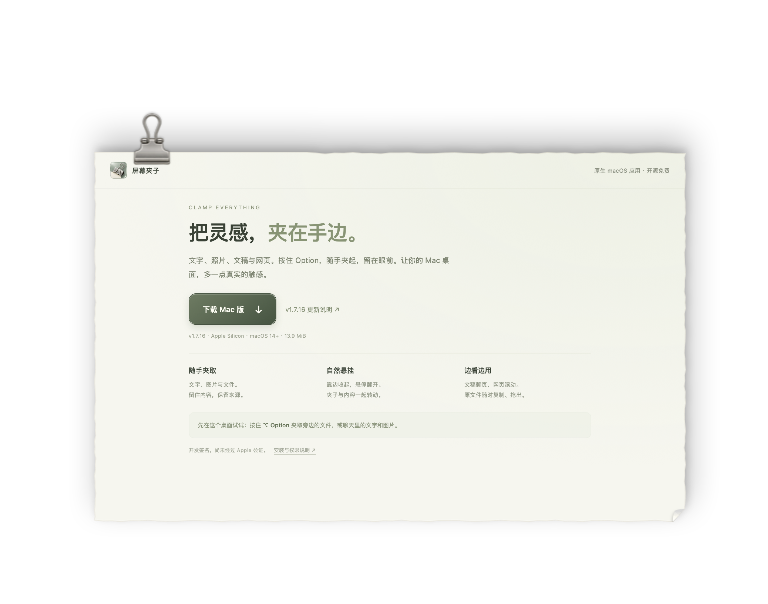
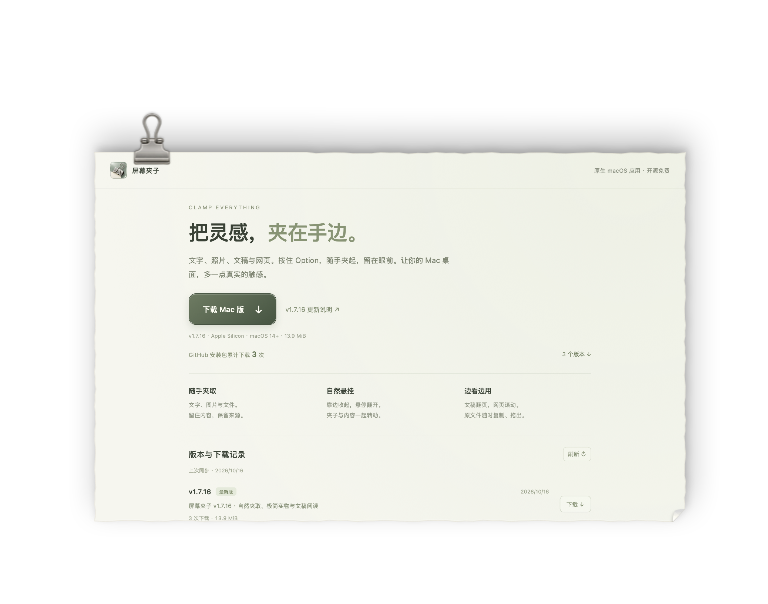
Add GitHub release download statistics and fix CDN-transformed HTML loading

diff --git a/site/assets/files/field-notes.html b/site/assets/files/field-notes.html
@@ -4,11 +4,17 @@
 <style>
 :root{font:14px/1.7 -apple-system,BlinkMacSystemFont,"PingFang SC",sans-serif;color:#344335;background:#f6f6ee;font-synthesis:none}*{box-sizing:border-box}body{margin:0;background:radial-gradient(ellipse at 90% 0,#e2e9d770,transparent 70%)}a{color:inherit;text-decoration:none}a:focus-visible{outline:2px solid #75926b;outline-offset:4px}header{display:flex;align-items:center;justify-content:space-between;gap:15px;padding:17px 28px;border-bottom:1px solid #536a4512}header a{display:flex;align-items:center;gap:9px;font-size:12px;font-weight:600}header img{width:29px;height:29px}header small{font-size:10px;color:#87907e}main{padding:24px 32px 26px;max-width:760px;margin:auto}.eyebrow{font-size:9px;letter-spacing:2px;color:#879577;margin:0 0 11px}h1{font-size:36px;letter-spacing:-1.1px;line-height:1.3;font-weight:550;margin:0 0 13px}h1 span{color:#829671}.description{font-size:13px;line-height:1.9;color:#7a8670;margin:0 0 21px;max-width:470px}.actions{display:flex;align-items:center;gap:16px;flex-wrap:wrap}.download{display:inline-flex;align-items:center;justify-content:center;gap:18px;min-height:46px;padding:11px 23px;border:1px solid #344c35;border-radius:12px;background:linear-gradient(145deg,#667d5f,#3c563f);color:#fffef4;box-shadow:0 5px 14px #3f55332a,inset 0 1px #ffffff3b;font-size:13px;font-weight:550;transition:transform .2s,filter .2s}.download:hover{filter:brightness(1.1);transform:translateY(-1px)}.download b{font-size:18px;font-weight:400}.release{font-size:11px;color:#7b8e6d}.version{font-size:9px;color:#9aa38e;margin:11px 0 22px}.features{display:grid;grid-template-columns:repeat(3,1fr);gap:19px;border-top:1px solid #536a4517;padding-top:19px}.features h2{font-size:12px;font-weight:550;margin:0 0 5px}.features p{font-size:10px;line-height:1.8;margin:0;color:#8e9884}.try{font-size:10px;color:#849477;padding:13px 15px;background:#e9eee27d;border:1px solid #dce5d340;border-radius:9px;margin:21px 0 13px}.try kbd{font:500 10px -apple-system,sans-serif;color:#5b7351}footer{font-size:9px;color:#a5ac9b}footer a{margin-left:9px;text-decoration:underline;text-underline-offset:3px}@media(max-width:440px){header{padding:13px 18px}main{padding:23px 22px}h1{font-size:30px}.description{font-size:12px}.features{gap:12px}.features h2{font-size:11px}.features p{font-size:9px}.actions{gap:13px}.download{padding:10px 19px}.version{font-size:8px}.try{font-size:9px;margin-top:17px}header small{font-size:9px}}@media(prefers-reduced-motion:reduce){*{transition:none!important}}
 @media(max-height:430px){header{padding:8px 18px}header img{width:24px;height:24px}main{padding:15px 22px}.eyebrow{display:none}h1{font-size:28px;margin-bottom:8px}.description{font-size:11px;line-height:1.7;margin-bottom:12px}.version{margin:8px 0 16px}.download{min-height:42px;padding:8px 17px}}
+.download-stats{display:flex;align-items:center;justify-content:space-between;gap:12px;flex-wrap:wrap;font-size:10px;color:#879677;margin:-9px 0 22px}.download-stats strong{font-size:13px;font-weight:600;font-variant-numeric:tabular-nums;color:#5d7951}.download-stats a{color:#6f8662;white-space:nowrap}.release-history{margin-top:25px;border-top:1px solid #536a4517;padding-top:20px;scroll-margin-top:18px}.release-history h2{font-size:14px;font-weight:550;letter-spacing:.2px;margin:0}.history-heading{display:flex;align-items:center;justify-content:space-between;gap:14px}.history-heading button{font:10px/1.5 -apple-system,sans-serif;border:1px solid #8e9f7b40;background:#fafff633;border-radius:6px;padding:4px 8px;color:#809171;cursor:pointer}.history-heading button:disabled{opacity:.45;cursor:wait}.release-status{font-size:9px;color:#9ea78f;line-height:1.7;margin:8px 0 3px}.release-list{list-style:none;padding:0;margin:0}.release-row{display:flex;align-items:center;gap:18px;padding:16px 0;border-bottom:1px solid #536a4512}.release-details{flex:1;min-width:0}.release-version{display:flex;align-items:center;gap:8px;flex-wrap:wrap;font-size:12px;font-weight:550}.release-version time{font-size:9px;font-weight:400;color:#9aa58c;margin-left:auto}.release-badge{font-size:8px;font-weight:400;line-height:1.8;padding:0 6px;border-radius:4px;color:#72865f;background:#e3ebd9}.release-badge.preview{background:#f0ead9;color:#9d8f62}.release-details .release-name{font-size:10px;line-height:1.8;color:#819174;margin:5px 0;overflow-wrap:anywhere}.release-details .release-count{font-size:9px;color:#a0ab93;font-variant-numeric:tabular-nums;margin:0}.release-files{display:flex;flex-direction:column;align-items:flex-end;gap:7px;flex:none}.release-file{font-size:10px;white-space:nowrap;padding:5px 11px;border:1px solid #a0b09066;border-radius:7px;color:#758a65;background:#fdfff647}.release-file:hover{background:#e7eedf}.stats-definition{font-size:9px;color:#a2ac95;margin:12px 0 0;line-height:1.8}.release-empty{font-size:11px;color:#879677;padding:15px 0}@media(max-width:440px){.download-stats{font-size:9px;gap:8px}.download-stats strong{font-size:12px}.release-history{margin-top:22px}.release-row{gap:12px}.release-version{gap:6px;font-size:11px}.release-version time{font-size:8px}.release-file{padding:5px 9px}.release-details .release-name{font-size:9px}}
 </style></head><body>
[1 lines of base64/hex data omitted]
 <main><p class="eyebrow">CLAMP EVERYTHING</p><h1>把灵感，<span>夹在手边。</span></h1><p class="description">文字、照片、文稿与网页。按住 Option，随手夹起，留在眼前。让你的 Mac 桌面，多一点真实的触感。</p>
 <div class="actions"><a id="desktop-download" class="download" href="https://github.com/Quartzsyr/ClampEverything/releases/download/v1.7.16/ClampEverything-1.7.16-arm64.dmg" target="_top">下载 Mac 版 <b aria-hidden="true">↓</b></a><a class="release" href="https://github.com/Quartzsyr/ClampEverything/releases/tag/v1.7.16" target="_blank" rel="noopener">v1.7.16 更新说明 ↗</a></div>
 <p class="version">v1.7.16 · Apple Silicon · macOS 14+ · 13.9 MiB</p>
+<div id="download-stats" class="download-stats" aria-label="GitHub 安装包下载统计"><!-- release-summary:start --><span>GitHub 安装包累计下载 <strong>3</strong> 次</span><a href="#release-history">3 个版本 ↓</a><!-- release-summary:end --></div>
 <section class="features"><article><h2>随手夹取</h2><p>文字、图片与文件。<br>留住内容，保留来源。</p></article><article><h2>自然悬挂</h2><p>靠边收起，悬停翻开。<br>夹子与内容一起转动。</p></article><article><h2>边看边用</h2><p>文稿翻页，网页滚动。<br>原文件随时复制、拖出。</p></article></section>
+<section class="release-history" id="release-history" aria-labelledby="history-title"><div class="history-heading"><h2 id="history-title">版本与下载记录</h2><button id="refresh-releases" type="button">刷新 ↻</button></div><p id="release-status" class="release-status" role="status" aria-live="polite"><!-- release-status:start -->上次同步 · 2026/10/16<!-- release-status:end --></p><ol id="release-list" class="release-list"><!-- release-list:start --><li class="release-row"><div class="release-details"><div class="release-version"><a href="https://github.com/Quartzsyr/ClampEverything/releases/tag/v1.7.16" target="_blank" rel="noopener">v1.7.16</a><span class="release-badge">最新版</span><time datetime="2026-10-16T02:53:20Z">2026/10/16</time></div><p class="release-name">屏幕夹子 v1.7.16 · 自然夹取、极简实物与文稿阅读</p><p class="release-count">3 次下载 · 13.9 MiB</p></div><div class="release-files"><a class="release-file" href="https://github.com/Quartzsyr/ClampEverything/releases/download/v1.7.16/ClampEverything-1.7.16-arm64.dmg" target="_top" title="ClampEverything-1.7.16-arm64.dmg">下载 ↓</a></div></li><li class="release-row"><div class="release-details"><div class="release-version"><a href="https://github.com/Quartzsyr/ClampEverything/releases/tag/v1.6.4" target="_blank" rel="noopener">v1.6.4</a><time datetime="2026-10-14T09:55:30Z">2026/10/14</time></div><p class="release-name">屏幕夹子 v1.6.4 · 明显高亮与拟物安装包</p><p class="release-count">0 次下载 · 11.3 MiB</p></div><div class="release-files"><a class="release-file" href="https://github.com/Quartzsyr/ClampEverything/releases/download/v1.6.4/ClampEverything-1.6.4-arm64.dmg" target="_top" title="ClampEverything-1.6.4-arm64.dmg">下载 ↓</a></div></li><li class="release-row"><div class="release-details"><div class="release-version"><a href="https://github.com/Quartzsyr/ClampEverything/releases/tag/v1.6.1" target="_blank" rel="noopener">v1.6.1</a><time datetime="2026-10-14T08:04:35Z">2026/10/14</time></div><p class="release-name">屏幕夹子 v1.6.1 · 拟物材质与鼠标夹取</p><p class="release-count">0 次下载 · 9.5 MiB</p></div><div class="release-files"><a class="release-file" href="https://github.com/Quartzsyr/ClampEverything/releases/download/v1.6.1/ClampEverything-1.6.1-arm64.dmg" target="_top" title="ClampEverything-1.6.1-arm64.dmg">下载 ↓</a></div></li><!-- release-list:end --></ol><p class="stats-definition">数据来自 GitHub Release，仅统计 DMG 安装包，不含校验文件和图片附件。</p></section>
 <p class="try">先在这个桌面试试：按住 <kbd>⌥ Option</kbd> 夹取旁边的文件，或聊天里的文字和图片。</p><footer>开发签名，尚未经过 Apple 公证。<a href="https://github.com/Quartzsyr/ClampEverything/releases/tag/v1.7.16" target="_blank" rel="noopener">安装与权限说明 ↗</a></footer>
-</main></body></html>
+</main>
+<!-- release-data:start --><script type="application/json" id="release-data">{"fetchedAt":"2026-10-16T03:24:54.268Z","latestTag":"v1.7.16","releases":[{"tag":"v1.7.16","name":"屏幕夹子 v1.7.16 · 自然夹取、极简实物与文稿阅读","url":"https://github.com/Quartzsyr/ClampEverything/releases/tag/v1.7.16","publishedAt":"2026-10-16T02:53:20Z","prerelease":false,"assets":[{"name":"ClampEverything-1.7.16-arm64.dmg","url":"https://github.com/Quartzsyr/ClampEverything/releases/download/v1.7.16/ClampEverything-1.7.16-arm64.dmg","downloads":3,"size":14600138}],"downloads":3},{"tag":"v1.6.4","name":"屏幕夹子 v1.6.4 · 明显高亮与拟物安装包","url":"https://github.com/Quartzsyr/ClampEverything/releases/tag/v1.6.4","publishedAt":"2026-10-14T09:55:30Z","prerelease":false,"assets":[{"name":"ClampEverything-1.6.4-arm64.dmg","url":"https://github.com/Quartzsyr/ClampEverything/releases/download/v1.6.4/ClampEverything-1.6.4-arm64.dmg","downloads":0,"size":11838853}],"downloads":0},{"tag":"v1.6.1","name":"屏幕夹子 v1.6.1 · 拟物材质与鼠标夹取","url":"https://github.com/Quartzsyr/ClampEverything/releases/tag/v1.6.1","publishedAt":"2026-10-14T08:04:35Z","prerelease":false,"assets":[{"name":"ClampEverything-1.6.1-arm64.dmg","url":"https://github.com/Quartzsyr/ClampEverything/releases/download/v1.6.1/ClampEverything-1.6.1-arm64.dmg","downloads":0,"size":10000510}],"downloads":0}],"totalDownloads":3}</script><!-- release-data:end -->
+<script type="module" src="../releases.js"></script>
+</body></html>

diff --git a/site/desktop.js b/site/desktop.js
@@ -46,7 +46,7 @@ export function createDesktop({manifest,nativeURL,files,canCapture,onCapture,onS
     return `<div class="finder-path"><button data-finder-back aria-label="返回桌面" ${finderFolder?'':'disabled'}>‹</button><span>${finderFolder?'周末旅行':'桌面'}</span><small>${kinds.length} 项</small><button class="finder-view" aria-label="列表视图">☷</button></div><div class="finder-table"><div class="finder-column"><span>名称</span><span>种类</span></div>${kinds.map(kind=>{const item=itemFor(kind);return `<div class="finder-row"><button class="finder-file" ${sourceAttr(`finder-${kind}`,kind)}>${sourceImage(item)}<span>${esc(nameFor(item))}</span><small>${labels[kind]}</small></button>${kind==='folder'?'<button data-folder-open aria-label="打开周末旅行" class="folder-disclosure">›</button>':''}</div>`;}).join('')}</div><div class="finder-status">${finderFolder?'周末旅行':'桌面'} · ${kinds.length} 项</div>`;
   }
   function openFinder(folder=false){finderFolder=folder;let record=windows.get('finder');if(record){$('.window-body',record.el).innerHTML=finderContents();record.title=finderFolder?'周末旅行':'桌面';$('.window-title',record.el).textContent=record.title;restoreWindow(record);return record;}return makeWindow('finder','finder',finderFolder?'周末旅行':'桌面',finderContents(),{width:590,height:440,sidebar:'<aside class="finder-sidebar"><small>个人收藏</small><button data-finder-root class="selected">▣　桌面</button><button data-folder-open>▰　周末旅行</button><span>⌄　下载</span><span>◷　最近使用</span></aside>'});}
-  function fileFrame(item,src,label){return `<div class="frame-source" ${sourceAttr(`viewer-${item.kind}`,item.kind)}><iframe src="${src}" title="${esc(label)}" data-file-id="${item.fileId}"></iframe><div class="file-capture-layer" aria-label="按住 Option 夹取${esc(item.title)}"></div></div>`;}
+  function fileFrame(item,src,label){const url=new URL(src);url.searchParams.set('v',item.fileId.slice(0,16));src=url.href;return `<div class="frame-source" ${sourceAttr(`viewer-${item.kind}`,item.kind)}><iframe src="${src}" title="${esc(label)}" data-file-id="${item.fileId}"></iframe><div class="file-capture-layer" aria-label="按住 Option 夹取${esc(item.title)}"></div></div>`;}
   function bindFrames(el){for(const frame of $$('iframe',el))frame.addEventListener('load',()=>{
     // HTML and Word previews are same-origin files. Forward only modifier/mouse
     // state so holding Option inside the document also arms the outer clip.
@@ -64,18 +64,18 @@ export function createDesktop({manifest,nativeURL,files,canCapture,onCapture,onS
   function openDocument(kind){const item=itemFor(kind),id=`document-${kind}`,existing=windows.get(id);if(existing){restoreWindow(existing);return existing;}
     const content=kind==='word'?fileFrame(item,nativeURL(files.catalog.previews.word.path),'从 DOCX 原件读取的正文'):`<div class="document-view pdf-pages" ${sourceAttr('viewer-document',kind)}><p class="file-loading">正在读取 PDF 原件…</p></div>`;
     const record=makeWindow(id,'document',item.title,`<div class="document-toolbar"><span>${kind==='word'?'Word 文稿':'PDF 原件'}</span><small>${files.get(item).name}</small><button data-download-file="${kind}" aria-label="下载原文件">↓</button><a href="${files.href(item)}" target="_blank" rel="noopener">打开原件 ↗</a></div>${content}`,{width:480,height:570});record.item=item;
-    if(kind==='document')renderPDF($('.pdf-pages',record.el),files.get(item).file).catch(error=>{const view=$('.pdf-pages',record.el);if(view)view.textContent='无法读取 PDF，请打开或下载原件。';console.error(error);});
+    if(kind==='document')files.ensure(item).then(original=>renderPDF($('.pdf-pages',record.el),original.file)).catch(error=>{const view=$('.pdf-pages',record.el);if(view)view.textContent='无法读取 PDF，请打开或下载原件。';console.error(error);});
     return record;
   }
   function openPhoto(){const item=itemFor('photo');return makeWindow('photos','photos',item.title,`<div class="photo-view" ${sourceAttr('photo-open','photo')} role="button" tabindex="0">${sourceImage(item)}</div><div class="preview-footer"><span>800 × 500 · PNG 图像</span><a href="${nativeURL(item.file)}" target="_blank" rel="noopener">打开原图 ↗</a></div>`,{width:550,height:420});}
-  async function openCode(){const record=makeWindow('code','code','LittleNote.swift','<div class="code-editor" role="button" tabindex="0" '+sourceAttr('editor-code','code')+'><pre></pre></div>',{width:530,height:400});$('pre',record.el).textContent=await files.text(itemFor('code'));return record;}
+  async function openCode(){const record=makeWindow('code','code','LittleNote.swift','<div class="code-editor" role="button" tabindex="0" '+sourceAttr('editor-code','code')+'><pre></pre></div>',{width:530,height:400});$('pre',record.el).textContent=await files.text(itemFor('code')).catch(()=> '暂时无法读取原文件，请稍后重试。');return record;}
   function openTrash(){return makeWindow('trash','trash','废纸篓',`<div class="trash-contents">${trash.length?trash.map((entry,index)=>`<div class="trash-row">${sourceImage(entry.item)}<span>${esc(entry.item.title)}</span><button data-trash-restore="${index}">放回原处</button></div>`).join(''):'<div class="empty-trash">废纸篓是空的</div>'}</div>`,{width:470,height:340});}
-  async function openInspector(item){const file=files.get(item),archive=files.catalog.archives[item.file],record=makeWindow(`file-${item.kind}`,'finder',item.title,`<div class="file-inspector" ${sourceAttr(`inspector-${item.kind}`,item.kind)}>${sourceImage(item)}<strong>${esc(file.name)}</strong><small>${labels[item.kind]} · ${file.size.toLocaleString()} 字节</small><button data-download-file="${item.kind}">下载原文件 ↓</button>${archive?`<ul class="archive-entries">${archive.map(entry=>`<li><span>${esc(entry.name)}</span><small>${entry.directory?'文件夹':entry.size.toLocaleString()+' B'}</small></li>`).join('')}</ul>`:'<pre class="file-hex"></pre>'}</div>`,{width:440,height:420});if(!archive){const bytes=new Uint8Array(await file.file.arrayBuffer());$('.file-hex',record.el).textContent=Array.from(bytes,b=>b.toString(16).padStart(2,'0').toUpperCase()).join(' ');}return record;}
+  async function openInspector(item){const file=files.get(item),archive=files.catalog.archives[item.file],record=makeWindow(`file-${item.kind}`,'finder',item.title,`<div class="file-inspector" ${sourceAttr(`inspector-${item.kind}`,item.kind)}>${sourceImage(item)}<strong>${esc(file.name)}</strong><small>${labels[item.kind]} · ${file.size.toLocaleString()} 字节</small><button data-download-file="${item.kind}">下载原文件 ↓</button>${archive?`<ul class="archive-entries">${archive.map(entry=>`<li><span>${esc(entry.name)}</span><small>${entry.directory?'文件夹':entry.size.toLocaleString()+' B'}</small></li>`).join('')}</ul>`:'<pre class="file-hex"></pre>'}</div>`,{width:440,height:420});if(!archive){try{const original=await files.ensure(item),bytes=new Uint8Array(await original.file.arrayBuffer());$('.file-hex',record.el).textContent=Array.from(bytes,b=>b.toString(16).padStart(2,'0').toUpperCase()).join(' ');}catch{$('.file-hex',record.el).textContent='原文件暂时不可用，请稍后重试。';}}return record;}
   function openFile(item){if(!item)return;switch(item.kind){case'folder':return openFinder(true);case'photo':return openPhoto();case'note':return openNotes();case'web':return openSafari();case'document':case'word':return openDocument(item.kind);case'video':case'audio':return openPlayer(item.kind);case'code':return openCode();default:return openInspector(item);}}
   function openApp(app){const existing=[...windows.values()].filter(w=>w.app===app).sort((a,b)=>(b.lastFocus||0)-(a.lastFocus||0))[0];if(existing){restoreWindow(existing);return;}switch(app){case'finder':return openFinder();case'messages':return openMessages();case'safari':return openSafari();case'notes':return openNotes();case'quicktime':return openPlayer();case'clamp':return onAbout();case'trash':return openTrash();}}
   function bindPlayer(el){const media=$('video,audio',el);if(!media)return;const play=$('[data-player-action=play]',el),range=$('.player-progress',el);play.onclick=()=>{if(media.paused)media.play().catch(()=>onStatus('暂时无法播放','可以打开原文件查看'));else media.pause();};const format=t=>`00:${String(Math.floor(t||0)).padStart(2,'0')}`;media.addEventListener('loadedmetadata',()=>{$('.player-duration',el).textContent=format(media.duration);});media.addEventListener('timeupdate',()=>{range.value=media.duration?100*media.currentTime/media.duration:0;$('.player-time',el).textContent=format(media.currentTime);});media.addEventListener('play',()=>{play.textContent='Ⅱ';play.setAttribute('aria-label','暂停');});media.addEventListener('pause',()=>{play.textContent='▶';play.setAttribute('aria-label','播放');});range.oninput=()=>{if(media.duration)media.currentTime=Number(range.value)*media.duration/100;};}
   function getSource(el){const base=sources.get(el.dataset.source);if(!base)return null;return {...base,element:el,visual:$('img,video,canvas,.message-lines',el)||el,origin:el.dataset.source};}
-  function contextMenu(e,source){e.preventDefault();contextClear();const entries=[['打开',()=>openFile(source.item)],['快速查看',()=>openFile(source.item)],['复制',()=>onCopy(source.item)],['在访达中显示',()=>openFinder(source.item.kind==='folder')],['下载原文件'+(source.item.kind==='folder'?'（ZIP）':''),()=>files.download(source.item)]];menu.innerHTML=entries.map(([label],i)=>`<button role="menuitem" data-context-index="${i}">${label}</button>`).join('');menu.hidden=false;menu.style.left=`${Math.min(e.clientX,innerWidth-190)}px`;menu.style.top=`${Math.min(e.clientY,innerHeight-180)}px`;$$('button',menu).forEach((button,index)=>button.onclick=()=>{contextClear();entries[index][1]();});}
+  function contextMenu(e,source){e.preventDefault();contextClear();const entries=[['打开',()=>openFile(source.item)],['快速查看',()=>openFile(source.item)],['复制',()=>onCopy(source.item)],['在访达中显示',()=>openFinder(source.item.kind==='folder')],['下载原文件'+(source.item.kind==='folder'?'（ZIP）':''),()=>files.download(source.item).catch(()=>onStatus('原文件暂时无法下载',source.item.title))]];menu.innerHTML=entries.map(([label],i)=>`<button role="menuitem" data-context-index="${i}">${label}</button>`).join('');menu.hidden=false;menu.style.left=`${Math.min(e.clientX,innerWidth-190)}px`;menu.style.top=`${Math.min(e.clientY,innerHeight-180)}px`;$$('button',menu).forEach((button,index)=>button.onclick=()=>{contextClear();entries[index][1]();});}
   function controlWindow(record,action){if(action==='close'){for(const media of $$('video,audio',record.el))media.pause();record.el.remove();windows.delete(record.id);if(active===record)active=null;$('#active-app').textContent=active?(appNames[active.app]||active.title):'访达';}else if(action==='minimize'){record.minimized=true;record.el.hidden=true;}else{if(record.zoomed){Object.assign(record,record.savedBounds);record.zoomed=false;}else{record.savedBounds={x:record.x,y:record.y,width:record.width,height:record.height};Object.assign(record,{x:14,y:12,width:innerWidth-28,height:innerHeight-170,zoomed:true});}bounds(record);}markRunning();}
   function onPointerDown(e){if(e.button!==0)return;const windowEl=e.target.closest('.app-window');if(windowEl)focusWindow(windows.get(windowEl.dataset.window));
     const sourceEl=e.target.closest('[data-source]');if(sourceEl&&!e.target.closest('a,input,textarea,[data-window-control]')){if(sourceEl.classList.contains('desktop-file')){active=null;$('#active-app').textContent='访达';for(const record of windows.values())record.el.classList.remove('front');}const source=getSource(sourceEl);if(!source)return;contextClear();if(selectedFile)selectedFile.classList.remove('selected');selectedFile=sourceEl;sourceEl.classList.add('selected');if(canCapture()){e.preventDefault();e.stopPropagation();onCapture(e,source);}return;}
@@ -89,11 +89,11 @@ export function createDesktop({manifest,nativeURL,files,canCapture,onCapture,onS
     document.addEventListener('pointerover',e=>{const element=e.target.closest('[data-source]');if(!canCapture())return;aimAt(e.clientX,e.clientY);});document.addEventListener('pointerout',e=>{if(!aimed||aimed.contains(e.relatedTarget))return;clearTimeout(aimTimer);aimed.classList.remove('aiming');aimed=null;});
     document.addEventListener('contextmenu',e=>{if(isCapturing()||canCapture())return;const sourceEl=e.target.closest('[data-source]');if(sourceEl){const source=getSource(sourceEl);if(source)contextMenu(e,source);}});
     document.addEventListener('dblclick',e=>{if(e.altKey||canCapture()||isCapturing())return;const source=e.target.closest('.desktop-file,.finder-file,.message-image,.message-attachment');if(source){e.preventDefault();openFile(getSource(source)?.item);}});
-    document.addEventListener('click',e=>{if(e.altKey||canCapture()||isCapturing())return;const download=e.target.closest('[data-download-file]');if(download)files.download(itemFor(download.dataset.downloadFile));const app=e.target.closest('[data-app]');if(app){contextClear();openApp(app.dataset.app);}const control=e.target.closest('[data-window-control]');if(control)controlWindow(windows.get(control.closest('.app-window').dataset.window),control.dataset.windowControl);
+    document.addEventListener('click',e=>{if(e.altKey||canCapture()||isCapturing())return;const download=e.target.closest('[data-download-file]');if(download)files.download(itemFor(download.dataset.downloadFile)).catch(()=>onStatus('原文件暂时无法下载'));const app=e.target.closest('[data-app]');if(app){contextClear();openApp(app.dataset.app);}const control=e.target.closest('[data-window-control]');if(control)controlWindow(windows.get(control.closest('.app-window').dataset.window),control.dataset.windowControl);
       if(e.target.closest('[data-send-attachment]'))sendDraft(windows.get(e.target.closest('.app-window').dataset.window));if(e.target.closest('[data-clear-draft]'))clearDraft(windows.get(e.target.closest('.app-window').dataset.window));
       if(e.target.closest('[data-folder-open]'))openFinder(true);if(e.target.closest('[data-finder-back],[data-finder-root]'))openFinder(false);const original=e.target.closest('[data-open-original]');if(original){const item=itemFor(original.dataset.openOriginal);window.open(nativeURL(item.file),'_blank','noopener');}const restore=e.target.closest('[data-trash-restore]');if(restore){const entry=trash.splice(Number(restore.dataset.trashRestore),1)[0];onRestorePinned(entry);controlWindow(windows.get('trash'),'close');openTrash();}if(!e.target.closest('#context-menu,[data-action=windows]'))contextClear();});
     document.addEventListener('keydown',e=>{if(e.altKey||canCapture()||isCapturing())return;if(e.key==='Enter'&&selectedFile&&!e.target.closest('input,textarea')){e.preventDefault();openFile(getSource(selectedFile)?.item);}if(e.key==='Escape')contextClear();if((e.metaKey||e.ctrlKey)&&e.key.toLowerCase()==='v'&&!e.target.matches('input,textarea')){if(active?.app==='finder'){e.preventDefault();pasteFile();}}});
-    document.addEventListener('dragstart',event=>{const source=event.target.closest('[data-source]');if(!source)return;if(canCapture()||isCapturing()){event.preventDefault();return;}const item=getSource(source)?.item;if(item)files.writeDrag(event.dataTransfer,item);});
+    document.addEventListener('dragstart',event=>{const source=event.target.closest('[data-source]');if(!source)return;if(canCapture()||isCapturing()){event.preventDefault();return;}const item=getSource(source)?.item;if(item&&!files.writeDrag(event.dataTransfer,item))event.preventDefault();});
     document.addEventListener('dragover',event=>{const target=event.target.closest('.app-finder,.app-messages');if(target&&event.dataTransfer.types.includes('application/x-clamp-file')){event.preventDefault();event.dataTransfer.dropEffect='copy';target.classList.add('copy-target');}});
     document.addEventListener('dragleave',event=>{const target=event.target.closest('.copy-target');if(target&&!target.contains(event.relatedTarget))target.classList.remove('copy-target');});
     document.addEventListener('drop',event=>{const target=event.target.closest('.app-finder,.app-messages');if(!target)return;target.classList.remove('copy-target');const payload=event.dataTransfer.getData('application/x-clamp-file');if(!payload)return;event.preventDefault();const item=files.resolveDrag(event.dataTransfer,manifest.items);if(item)receiveFile(item,windows.get(target.dataset.window));});
@@ -115,7 +115,7 @@ export function createDesktop({manifest,nativeURL,files,canCapture,onCapture,onS
   }
   function clearDraft(record){record.draftItem=null;const compose=$('.message-compose',record.el);compose.classList.remove('has-draft');compose.innerHTML='<span class="compose-plus">＋</span><div class="compose-placeholder">iMessage</div><span class="compose-mic">♩</span>';}
   function pasteFile(){const item=api.clipboard;if(!item)return onStatus('剪贴板为空');const record=active?.app==='messages'?active:openFinder(false);receiveFile(item,record);}
-  const api={mount:async()=>{noteText=await files.text(itemFor('note'));drawFiles();drawDock();bind();openMessages();openSafari();},openApp,openFile,openFinder,clipboard:null,pasteFile,
+  const api={mount:async()=>{noteText=await files.text(itemFor('note')).catch(()=> '');drawFiles();drawDock();bind();openMessages();openSafari();},openApp,openFile,openFinder,clipboard:null,pasteFile,
     aimAt,clearAim:()=>{clearTimeout(aimTimer);aimed?.classList.remove('aiming');aimed=null;},showWindowMenu:()=>{contextClear();const records=[...windows.values()];const rect=$('[data-action=windows]').getBoundingClientRect();menu.style.left=`${rect.left}px`;menu.style.top=`${rect.bottom+3}px`;menu.innerHTML=records.length?records.map((record,index)=>`<button role="menuitem" data-window-index="${index}">${record===active?'✓　':'　　'}${esc(record.title)}${record.minimized?'　—':''}</button>`).join(''):'<button role="menuitem" data-new-finder>新建访达窗口</button>';menu.hidden=false;$$('[data-window-index]',menu).forEach(button=>button.onclick=()=>{restoreWindow(records[Number(button.dataset.windowIndex)]);contextClear();});const create=$('[data-new-finder]',menu);if(create)create.onclick=()=>{openFinder();contextClear();};},
     isTrashPoint:(x,y)=>{const button=$('[data-app=trash]',dock);if(!button)return false;const r=button.getBoundingClientRect();return x>=r.left-10&&x<=r.right+10&&y>=r.top-15&&y<=r.bottom+10;},
     discard:entry=>{trash.push(entry);$('[data-app=trash]',dock).classList.add('trash-full');if(windows.has('trash')){controlWindow(windows.get('trash'),'close');openTrash();}},

diff --git a/site/assets/release-data.js b/site/assets/release-data.js
@@ -1,0 +1,38 @@
+// Public GitHub Release asset counters; no click tracking or estimated counts.
+// https://docs.github.com/en/rest/releases/releases
+export const API = 'https://api.github.com/repos/Quartzsyr/ClampEverything/releases';
+export const RELEASES = 'https://github.com/Quartzsyr/ClampEverything/releases';
+const escape = value => String(value).replace(/[&<>"']/g,c=>({'&':'&amp;','<':'&lt;','>':'&gt;','"':'&quot;',"'":'&#39;'}[c]));
+const count = value => Number.isSafeInteger(value) && value >= 0 ? value : null;
+const sum = values => values.every(value=>value!==null) ? values.reduce((a,b)=>a+b,0) : null;
+export const number = value => value===null ? '—' : new Intl.NumberFormat('zh-CN').format(value);
+export const date = value => Number.isFinite(Date.parse(value)) ? new Intl.DateTimeFormat('zh-CN',{year:'numeric',month:'2-digit',day:'2-digit',timeZone:'Asia/Shanghai'}).format(new Date(value)) : '日期未知';
+export const size = bytes => `${(bytes/1048576).toFixed(1)} MiB`;
+function safeURL(value,prefix) { try {const url=new URL(value);return url.href.startsWith(prefix) && url.protocol==='https:' ? url.href : null;} catch {return null;} }
+export function releaseModel(raw,latestTag,fetchedAt=new Date().toISOString()) {
+  if(!Array.isArray(raw))throw new Error('Invalid release response');
+  const seen=new Set();
+  const releases=raw.filter(r=>r&&!r.draft&&r.published_at&&typeof r.tag_name==='string').map(r=>{
+    const url=safeURL(r.html_url,`${RELEASES}/tag/`);if(!url||seen.has(r.tag_name))return null;seen.add(r.tag_name);
+    const assets=(r.assets||[]).filter(a=>a&&/\.dmg$/i.test(a.name||'')).map(a=>({name:a.name,url:safeURL(a.browser_download_url,`${RELEASES}/download/`),downloads:count(a.download_count),size:count(a.size)})).filter(a=>a.url);
+    return {tag:r.tag_name,name:String(r.name||r.tag_name),url,publishedAt:r.published_at,prerelease:!!r.prerelease,assets,downloads:sum(assets.map(a=>a.downloads))};
+  }).filter(Boolean).sort((a,b)=>Date.parse(b.publishedAt)-Date.parse(a.publishedAt));
+  return {fetchedAt,latestTag,releases,totalDownloads:sum(releases.map(r=>r.downloads))};
+}
+export async function fetchReleases({fetcher=fetch,headers={}}={}) {
+  const read=async url=>{const response=await fetcher(url,{cache:'no-store',headers:{Accept:'application/vnd.github+json',...headers},signal:AbortSignal.timeout(10000)});if(!response.ok)throw new Error(`GitHub ${response.status}`);return response;};
+  const latestPromise=read(`${API}/latest`).then(r=>r.json()).then(r=>r.tag_name).catch(()=>null);
+  const all=[];let url=`${API}?per_page=100`;const visited=new Set();
+  while(url){if(visited.has(url))throw new Error('Repeated release page');visited.add(url);const response=await read(url),entries=await response.json();if(!Array.isArray(entries))throw new Error('Invalid release page');all.push(...entries);
+    const next=/<([^>]+)>;\s*rel="next"/.exec(response.headers.get('Link')||'')?.[1];
+    if(next&&!next.startsWith(`${API}?`))throw new Error('Unexpected pagination URL');url=next||null;
+  }
+  return releaseModel(all,await latestPromise);
+}
+export function summaryHTML(model) {
+  return `<span>GitHub 安装包累计下载 <strong>${number(model.totalDownloads)}</strong> 次</span><a href="#release-history">${number(model.releases.length)} 个版本 ↓</a>`;
+}
+export function historyHTML(model) {
+  if(!model.releases.length)return '<li class="release-empty">暂未发布版本，<a href="'+RELEASES+'" target="_blank" rel="noopener">前往 GitHub 查看 ↗</a></li>';
+  return model.releases.map(r=>`<li class="release-row"><div class="release-details"><div class="release-version"><a href="${escape(r.url)}" target="_blank" rel="noopener">${escape(r.tag)}</a>${r.tag===model.latestTag?'<span class="release-badge">最新版</span>':''}${r.prerelease?'<span class="release-badge preview">预发布</span>':''}<time datetime="${escape(r.publishedAt)}">${date(r.publishedAt)}</time></div><p class="release-name">${escape(r.name)}</p><p class="release-count">${number(r.downloads)} 次下载${r.assets.length===1&&r.assets[0].size!==null?' · '+size(r.assets[0].size):''}</p></div><div class="release-files">${r.assets.length?r.assets.map(a=>`<a class="release-file" href="${escape(a.url)}" target="_top" title="${escape(a.name)}">下载${r.assets.length>1?' '+(/arm64/i.test(a.name)?'Apple Silicon':/x64|intel/i.test(a.name)?'Intel':escape(a.name)):''} ↓</a>`).join(''):`<a class="release-file" href="${escape(r.url)}" target="_blank" rel="noopener">查看版本 ↗</a>`}</div></li>`).join('');
+}

diff --git a/site/main.js b/site/main.js
@@ -1,6 +1,6 @@
 import { createDesktop } from './desktop.js';
 import { HINGE, MATERIALS, clamp, pickupSample } from './motion.js';
-import { FileLibrary } from './file-library.js';
+import { FileLibrary } from './file-library.js?v=20261016-binary';
 import { HoldGesture } from './hold-gesture.js';
 
 const $ = (s, root = document) => root.querySelector(s);
@@ -63,7 +63,7 @@ function makeObject(item,{x,y,side='left',compact=false,docked=true,initial=fals
   });
   obj.compactButton.addEventListener('click',()=>setExpanded(obj,true));
   obj.expandedButton.addEventListener('click',()=>{if(!obj.busy)copyItem(obj.item);});
-  obj.expandedButton.draggable=true;obj.expandedButton.addEventListener('dragstart',event=>{if(manual||obj.busy){event.preventDefault();return;}files.writeDrag(event.dataTransfer,obj.item);});
+  obj.expandedButton.draggable=true;obj.expandedButton.addEventListener('dragstart',event=>{if(manual||obj.busy){event.preventDefault();return;}if(!files.writeDrag(event.dataTransfer,obj.item))event.preventDefault();});
   for(const surface of [obj.compactButton,obj.expandedButton,grip]){
     surface.addEventListener('pointerenter',()=>{clearTimeout(obj.leaveTimer);if(obj.compact&&!dragging&&!manual){clearTimeout(obj.hoverTimer);obj.hoverTimer=setTimeout(()=>setExpanded(obj,true,true),350);}});
     surface.addEventListener('pointerleave',()=>{clearTimeout(obj.hoverTimer);if(!obj.sticky&&!dragging){obj.leaveTimer=setTimeout(()=>setExpanded(obj,false),450);}});
@@ -135,7 +135,9 @@ async function grasp(item,source,to,token){
   }requestAnimationFrame(frame);});
 }
 function beginCapture(event,source){
-  if(event.button!==0||manual||!gesture.press())return;
+  if(event.button!==0||manual)return;
+  if(!files.get(source.item)?.file){event.preventDefault();status('正在重新读取文件',source.item.title);files.ensure(source.item).then(()=>status('文件已就绪','请再次夹取')).catch(()=>status('文件暂时不可用','其他内容仍可正常夹取'));return;}
+  if(!gesture.press())return;
   event.preventDefault();run++;const token=run;
   hasPointer=true;point.x=event.clientX;point.y=event.clientY;
   manual={item:source.item,source,token,start:{x:event.clientX,y:event.clientY},ready:false,released:false};
@@ -143,6 +145,7 @@ function beginCapture(event,source){
   grasp(source.item,source,manual.start,token).then(ok=>{if(ok&&manual?.token===token){manual.ready=true;source.element.classList.remove('aiming','being-clamped');if(manual.released)finishManual();}});
 }
 async function copyItem(item){
+  try{await files.ensure(item);}catch{status('未能复制','原文件暂时不可用，请稍后重试');return;}
   environment.clipboard=item;
   try{if(item.kind==='note'||item.kind==='code'){await navigator.clipboard?.writeText(await files.text(item));}
   else if(item.kind==='photo'&&window.ClipboardItem){await navigator.clipboard?.write([new ClipboardItem({'image/png':files.get(item).file})]);}}
@@ -200,7 +203,7 @@ function finishManual(){
 async function init(){
   document.body.classList.add('load-pending');const response=await fetch(new URL('manifest.json',nativeBase));if(!response.ok)throw new Error('原生素材尚未就绪');manifest=await response.json();await files.load(manifest.items);
   environment=createDesktop({manifest,nativeURL,files,canCapture:()=>gesture.active,onCapture:beginCapture,onStatus:status,onSettings:showSettings,onAbout:showAbout,isCapturing:()=>!!manual,onCancel:stopDemo,onCopy:copyItem,onRestorePinned:entry=>makeObject(entry.item,entry)});
-  bind();await environment.mount();document.body.classList.remove('load-pending');status('按住 ⌥ Option，随手夹取','普通鼠标单击选择、双击打开；按住 Option 夹取，松开鼠标放置');
+  bind();await environment.mount();document.body.classList.remove('load-pending');if(files.failures.size)status('桌面已就绪',`${files.failures.size} 个文件暂时不可用，其他内容可继续使用；再次夹取会重试`);else status('按住 ⌥ Option，随手夹取','普通鼠标单击选择、双击打开；按住 Option 夹取，松开鼠标放置');
 }
 function updateClock(){$('#clock').textContent=new Intl.DateTimeFormat('zh-CN',{weekday:'short',hour:'2-digit',minute:'2-digit',hour12:false}).format(new Date());}updateClock();setInterval(updateClock,30000);
 init().catch(error=>{document.body.classList.remove('load-pending');status('原生演示素材加载失败','请刷新页面重试');console.error(error);});

diff --git a/site/file-library.js b/site/file-library.js
@@ -1,36 +1,48 @@
 // Every source resolves to the bytes of an authored demo file. Native PNGs are
 // thumbnails only: opening, downloading and drag-copying use this same File.
 export class FileLibrary {
-  constructor(nativeURL) { this.url = nativeURL; this.records = new Map(); }
+  constructor(nativeURL) { this.url = nativeURL; this.records = new Map(); this.failures = new Map(); }
   async load(items) {
-    const response = await fetch(new URL('./assets/files/catalog.json', import.meta.url));
+    const response = await fetch(new URL('./assets/files/catalog.json', import.meta.url),{cache:'no-store'});
     if (!response.ok) throw new Error('演示文件目录加载失败');
     this.catalog = await response.json();
-    await Promise.all(this.catalog.files.map(async entry => {
-      const response = await fetch(this.url(entry.path));
-      if (!response.ok) throw new Error(`文件加载失败：${entry.name}`);
-      const bytes = await response.arrayBuffer();
-      const digest = Array.from(new Uint8Array(await crypto.subtle.digest('SHA-256', bytes)), b => b.toString(16).padStart(2, '0')).join('');
-      if (digest !== entry.sha256 || bytes.byteLength !== entry.size) throw new Error(`文件校验失败：${entry.name}`);
-      const file = new File([bytes], entry.name, {type:entry.mime, lastModified:0});
-      this.records.set(entry.path, {...entry, file, href:URL.createObjectURL(file)});
-    }));
+    for(const entry of this.catalog.files)this.records.set(entry.path,{...entry,file:null,href:this.url(entry.path)});
+    const results=await Promise.allSettled(this.catalog.files.map(entry=>this.read(entry)));
+    results.forEach((result,index)=>{if(result.status==='rejected')this.failures.set(this.catalog.files[index].path,result.reason);});
     for (const item of items) {
       const record = this.get(item);
       if (!record) throw new Error(`缺少原文件：${item.title}`);
       item.fileId = record.sha256;
     }
   }
+  async read(entry) {
+    let error;
+    for(let attempt=0;attempt<2;attempt++)try{
+      const url=new URL(this.url(entry.bytesPath||entry.path));url.searchParams.set('v',entry.sha256.slice(0,16));
+      const response=await fetch(url,{cache:'no-store',signal:AbortSignal.timeout(12000)});
+      if(!response.ok)throw new Error(`文件加载失败：${entry.name}`);
+      const bytes=await response.arrayBuffer();
+      if(!globalThis.crypto?.subtle)throw new Error('请使用 HTTPS 打开网页');
+      const digest=Array.from(new Uint8Array(await crypto.subtle.digest('SHA-256',bytes)),b=>b.toString(16).padStart(2,'0')).join('');
+      if(digest!==entry.sha256||bytes.byteLength!==entry.size)throw new Error(`文件校验失败：${entry.name}`);
+      const file=new File([bytes],entry.name,{type:entry.mime,lastModified:0}),record={...entry,file,href:URL.createObjectURL(file)};
+      const old=this.records.get(entry.path);if(old?.file)URL.revokeObjectURL(old.href);
+      this.records.set(entry.path,record);this.failures.delete(entry.path);return record;
+    }catch(reason){error=reason;}
+    throw error;
+  }
+  async ensure(item) { const record=this.get(item);if(!record)throw new Error('缺少原文件');return record.file?record:this.read(record); }
   get(item) { return this.records.get(item.file); }
   find(id) { return [...this.records.values()].find(record => record.sha256 === id); }
-  text(item) { return this.get(item).file.text(); }
+  async text(item) { return (await this.ensure(item)).file.text(); }
   href(item) { return this.get(item).href; }
-  download(item) {
-    const record = this.get(item), link = document.createElement('a');
+  async download(item) {
+    const record = await this.ensure(item), link = document.createElement('a');
     link.href = record.href; link.download = record.name; link.click();
   }
   writeDrag(transfer, item) {
     const record = this.get(item);
+    if(!record?.file)return false;
     transfer.effectAllowed = 'copy';
     transfer.items.add(record.file);
     transfer.setData('application/x-clamp-file', JSON.stringify({id:record.sha256, kind:item.kind}));
@@ -38,6 +50,7 @@ export class FileLibrary {
     transfer.setData('text/plain', record.name);
     // Chromium's external file export convention, in addition to the File item.
     transfer.setData('DownloadURL', `${record.mime}:${record.name}:${this.url(item.file)}`);
+    return true;
   }
   resolveDrag(transfer, items) {
     try {

diff --git a/site/assets/releases.js b/site/assets/releases.js
@@ -1,0 +1,22 @@
+import {fetchReleases,summaryHTML,historyHTML,date,size} from './release-data.js';
+
+const cacheKey='clamp-release-stats-v1',ttl=10*60*1000;
+const status=document.querySelector('#release-status'),refresh=document.querySelector('#refresh-releases');
+let current=null,busy=false;
+try{current=JSON.parse(document.querySelector('#release-data').textContent);}catch{}
+function render(model,source){
+  current=model;document.querySelector('#download-stats').innerHTML=summaryHTML(model);document.querySelector('#release-list').innerHTML=historyHTML(model);
+  const latest=model.releases.find(r=>r.tag===model.latestTag&&!r.prerelease),asset=latest?.assets.find(a=>/arm64/i.test(a.name))||latest?.assets[0];
+  if(asset){document.querySelector('#desktop-download').href=asset.url;const notes=document.querySelector('.actions .release');notes.href=latest.url;notes.textContent=`${latest.tag} 更新说明 ↗`;document.querySelector('.version').textContent=`${latest.tag} · Apple Silicon · macOS 14+${asset.size===null?'':' · '+size(asset.size)}`;}
+  status.textContent=`${source} · ${date(model.fetchedAt)}`;status.title=`数据同步时间：${new Date(model.fetchedAt).toLocaleString('zh-CN',{timeZone:'Asia/Shanghai'})}`;
+}
+async function update(force=false){
+  if(busy)return;busy=true;refresh.disabled=true;
+  try{
+    try{const cache=JSON.parse(localStorage.getItem(cacheKey)),age=Date.now()-Date.parse(cache?.fetchedAt);if(Array.isArray(cache?.releases)&&Number.isFinite(age)&&age>=0&&(!current||Date.parse(cache.fetchedAt)>=Date.parse(current.fetchedAt))){render(cache,'上次同步数据');if(!force&&age<ttl){render(cache,'已缓存 GitHub 数据');return;}}}catch{}
+    status.textContent='正在同步 GitHub…';const model=await fetchReleases();render(model,'已同步 GitHub');try{localStorage.setItem(cacheKey,JSON.stringify(model));}catch{}
+  }catch{
+    if(current)render(current,'上次同步数据');else status.textContent='暂时无法读取 GitHub，仍可下载或查看 Release';
+  }finally{busy=false;refresh.disabled=false;}
+}
+refresh.addEventListener('click',()=>update(true));update();

diff --git a/site/index.html b/site/index.html
@@ -5,7 +5,7 @@
 <title>屏幕夹子 · 把灵感，夹在手边。</title>
 <meta name="description" content="用真实文件与桌面端原生渲染，演示屏幕夹子的夹取、悬挂、收起和展开。">
 <meta property="og:title" content="屏幕夹子 · 把灵感，夹在手边。"><meta property="og:image" content="https://quartzsyr.github.io/ClampEverything/assets/social.jpg">
-<link rel="canonical" href="https://quartzsyr.github.io/ClampEverything/"><link rel="icon" href="./assets/app-icon.webp"><link rel="stylesheet" href="./style.css"><script type="module" src="./main.js"></script>
+<link rel="canonical" href="https://quartzsyr.github.io/ClampEverything/"><link rel="icon" href="./assets/app-icon.webp"><link rel="stylesheet" href="./style.css"><script type="module" src="./main.js?v=20261016-releases"></script>
 </head>
 <body>
 <a class="skip-link" href="#desktop">跳到桌面</a>

diff --git a/site/scripts/prepare-files.py b/site/scripts/prepare-files.py
@@ -18,7 +18,14 @@ entries = []
 for name in dict.fromkeys(item['file'] for item in manifest['items']):
     path = (root / 'assets/native' / name).resolve()
     data = path.read_bytes()
-    entries.append(dict(path=name, name=path.name, size=len(data), mime=types[path.suffix], sha256=hashlib.sha256(data).hexdigest()))
+    entry = dict(path=name, name=path.name, size=len(data), mime=types[path.suffix], sha256=hashlib.sha256(data).hexdigest())
+    # A CDN may inject scripts into text/html responses. Transport the exact
+    # original bytes as binary; the normal HTML URL remains the live viewer.
+    if path.suffix == '.html':
+        companion = path.with_name(path.name + '.bin')
+        companion.write_bytes(data)
+        entry['bytesPath'] = name + '.bin'
+    entries.append(entry)
 
 word = files / '出行计划.docx'
 with zipfile.ZipFile(word) as archive:
